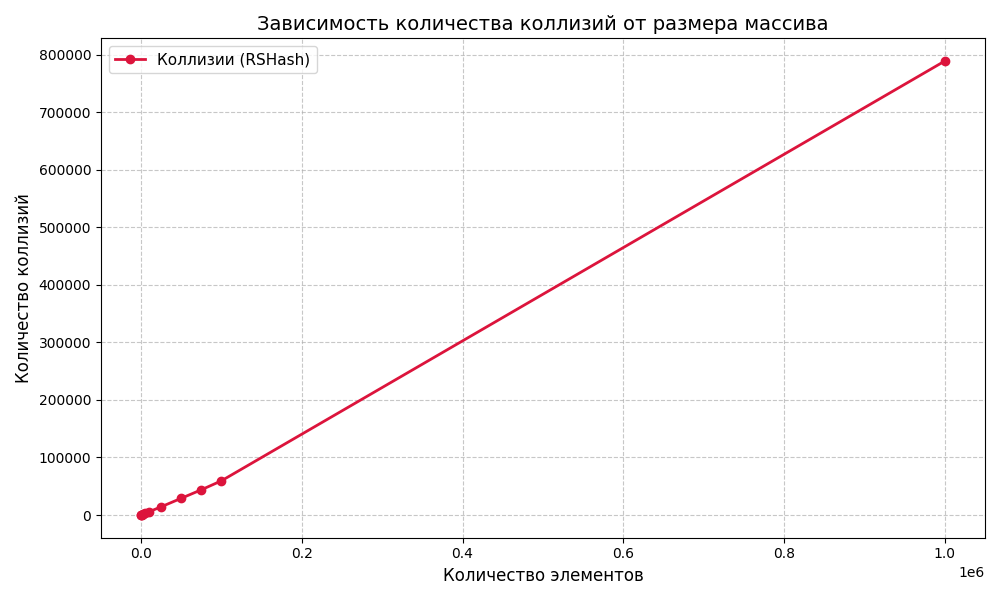
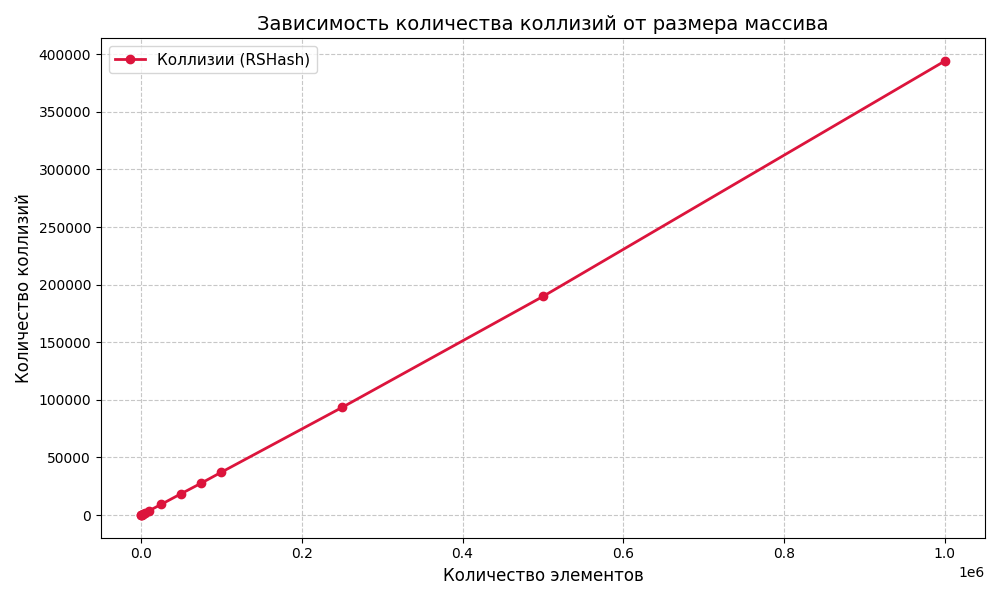
Added more testing sizes; Wrapped IO operations in util; Implemented prime number bucket sizes; Expanded data generator;

diff --git a/src/util.hpp b/src/util.hpp
@@ -6,56 +6,109 @@
 #include <iostream>
 #include "resident.hpp"
 
-std::vector<Resident> read_csv(const std::string& filename) {
-    std::vector<Resident> result;
-    std::ifstream file(filename);
-    
-    if (!file.is_open()) {
-        std::cerr << "Не удалось открыть файл на чтение";
+namespace util {
+    struct TimeLog {
+        int size;
+        long long time_lin;
+        long long time_bt;
+        long long time_rbt;
+        long long time_hash;
+        long long time_map;
+        int colls;
+    };
+
+    std::vector<Resident> read_csv(const std::string& filename) {
+        std::vector<Resident> result;
+        std::ifstream file(filename);
+        
+        if (!file.is_open()) {
+            std::cerr << "Не удалось открыть файл на чтение";
+            return result;
+        }
+
+        std::string line;
+        if (std::getline(file, line)) {}
+
+        while (std::getline(file, line)) {
+            if (line.empty()) continue;
+
+            std::stringstream ss(line);
+            std::string fio, street, house_str, apt_str, year_str;
+
+            std::getline(ss, fio, ';');
+            std::getline(ss, street, ';');
+            std::getline(ss, house_str, ';');
+            std::getline(ss, apt_str, ';');
+            std::getline(ss, year_str, ';');
+
+            Resident r;
+            r.fio = fio;
+            r.street = street;
+            r.house = std::stoi(house_str);
+            r.apartment = std::stoi(apt_str);
+            r.birth_year = std::stoi(year_str);
+            result.push_back(r);
+        }
         return result;
     }
 
-    std::string line;
-    if (std::getline(file, line)) {}
+    void write_data_csv(const std::string& filename, const std::vector<Resident>& data) {
+        std::ofstream file(filename);
+        
+        if (!file.is_open()) {
+            std::cerr << "Не удалось открыть файл на запись";
+            return;
+        }
 
-    while (std::getline(file, line)) {
-        if (line.empty()) continue;
-
-        std::stringstream ss(line);
-        std::string fio, street, house_str, apt_str, year_str;
-
-        std::getline(ss, fio, ';');
-        std::getline(ss, street, ';');
-        std::getline(ss, house_str, ';');
-        std::getline(ss, apt_str, ';');
-        std::getline(ss, year_str, ';');
-
-        Resident r;
-        r.fio = fio;
-        r.street = street;
-        r.house = std::stoi(house_str);
-        r.apartment = std::stoi(apt_str);
-        r.birth_year = std::stoi(year_str);
-        result.push_back(r);
-    }
-    return result;
-}
-
-void write_csv(const std::string& filename, const std::vector<Resident>& data) {
-    std::ofstream file(filename);
-    
-    if (!file.is_open()) {
-        std::cerr << "Не удалось открыть файл на запись";
-        return;
+        file << "fio;street;house;apartment;birth_year\n";
+        
+        for (const auto& r : data) {
+            file << r.fio << ";" 
+                << r.street << ";" 
+                << r.house << ";" 
+                << r.apartment << ";" 
+                << r.birth_year << "\n";
+        }
     }
 
-    file << "fio;street;house;apartment;birth_year\n";
-    
-    for (const auto& r : data) {
-        file << r.fio << ";" 
-             << r.street << ";" 
-             << r.house << ";" 
-             << r.apartment << ";" 
-             << r.birth_year << "\n";
+    void write_times_csv(const std::string& filename, const std::vector<TimeLog>& results) {
+        std::ofstream file(filename);
+        if (!file.is_open()) {
+            std::cerr << "Не удалось открыть файл для записи времени\n";
+            return;
+        }
+
+        file << "Size;Linear;BT;RBT;Hash;MultiMap;HashCollisions\n";
+        for (const auto& res : results) {
+            file << res.size << ";"
+                 << res.time_lin << ";"
+                 << res.time_bt << ";"
+                 << res.time_rbt << ";"
+                 << res.time_hash << ";"
+                 << res.time_map << ";"
+                 << res.colls << "\n";
+        }
+    }
+
+    bool is_prime(unsigned long n) {
+        if (n <= 1) {
+            return false;
+        }
+
+        for (unsigned long i = 2; i * i <= n; ++i) {
+            if (n % i == 0) {
+                return false;
+            }
+        }
+
+        return true;
+    }
+
+    unsigned long get_closest_prime(unsigned long n) {
+        while (!is_prime(n)) {
+            n++;
+        }
+
+        return n;
     }
 }

diff --git a/src/main.cpp b/src/main.cpp
@@ -26,7 +26,7 @@ int main() {
     std::string times_file = "../data/out_times.csv";
 
     std::cout << "Читаем данные из " << in_file << "\n";
-    std::vector<Resident> original_data = read_csv(in_file);
+    std::vector<Resident> original_data = util::read_csv(in_file);
     std::cout << "Успешно прочитано " << original_data.size() << "\n";
 
     if (original_data.empty()) {
@@ -34,7 +34,8 @@ int main() {
         return 1;
     }
 
-    std::vector<int> sizes = {100, 500, 1000, 2500, 5000, 10000, 25000, 50000, 75000, 100000, 1000000};
+    std::vector<int> sizes = {100, 500, 1000, 2500, 5000, 10000, 25000, 50000, 75000, 100000, 250000, 500000, 1000000};
+    std::vector<util::TimeLog> time_results;
 
     std::ofstream t_file(times_file);
     if (!t_file.is_open()) {
@@ -77,7 +78,8 @@ for (int size : sizes) {
         }
 
         // Хэш-таблица
-        htable::HashTable hash_table(size / 2 > 0 ? size / 2 : 10);
+        unsigned long buckets = util::get_closest_prime(size);
+        htable::HashTable hash_table(buckets);
         for (const auto& res : slice) {
             hash_table.insert(res);
         }
@@ -89,14 +91,14 @@ for (int size : sizes) {
         }
 
         // Замеряем время
-        long long time_linear = 0, time_bt = 0, time_rbt = 0, time_hash = 0, time_map = 0;
+        long long time_lin = 0, time_bt = 0, time_rbt = 0, time_hash = 0, time_map = 0;
 
         auto start = std::chrono::high_resolution_clock::now();
         for (const auto& key : search_keys) {
             auto res = linear_search(slice, key); 
         }
         auto end = std::chrono::high_resolution_clock::now();
-        time_linear = std::chrono::duration_cast<std::chrono::microseconds>(end - start).count();
+        time_lin = std::chrono::duration_cast<std::chrono::microseconds>(end - start).count();
 
         start = std::chrono::high_resolution_clock::now();
         for (const auto& key : search_keys) {
@@ -131,17 +133,12 @@ for (int size : sizes) {
         end = std::chrono::high_resolution_clock::now();
         time_map = std::chrono::duration_cast<std::chrono::microseconds>(end - start).count();
 
-        // Записываем результаты
-        int collisions = hash_table.getCollisions();
+        int colls = hash_table.getCollisions();
         
-        t_file << size << ";" 
-               << time_linear << ";" 
-               << time_bt << ";" 
-               << time_rbt << ";" 
-               << time_hash << ";" 
-               << time_map << ";" 
-               << collisions << "\n";
+        time_results.push_back({size, time_lin, time_bt, time_rbt, time_hash, time_map, colls});
     }
+
+    util::write_times_csv(times_file, time_results);
 
     std::cout << "Конец замеров\n";
     return 0;

diff --git a/python_scripts/generate_data.py b/python_scripts/generate_data.py
@@ -12,7 +12,8 @@ FIO_LIST = [
 STREET_LIST = [
     "Первая", "Вторая", "Третья", "Главная", "Красная",
     "Синяя", "Пушкина", "Ломоносова", "Пушкина", "Ленина",
-    "Авиаторов", "Таллинская", "Московская", "Мира", "Шипиловская"
+    "Авиаторов", "Таллинская", "Московская", "Мира", "Шипиловская",
+    "Синяя", "Желтая", "Белая", "Арбатская", "Покровская"
 ]
 
 def main():
@@ -29,7 +30,7 @@ def main():
 
     while len(unique_records) < n:
         fio = random.choice(FIO_LIST)
-        street = random.choice(STREET_LIST) + " " + str(random.randint(0,20000))
+        street = random.choice(STREET_LIST) + " " + str(random.randint(0,500000))
         house = random.randint(1, 100)
         apartment = random.randint(1, 1000)
         birth_year = random.randint(1900, 2026)

diff --git a/src/binary_tree.hpp b/src/binary_tree.hpp
@@ -24,7 +24,7 @@ namespace btree {
         tnode* root = new tnode(input[mid]);
 
         root->left = buildTree(input, start, mid - 1);
-        root->right = buildTree(input, mid +1, end);
+        root->right = buildTree(input, mid + 1, end);
 
         return root;
     }